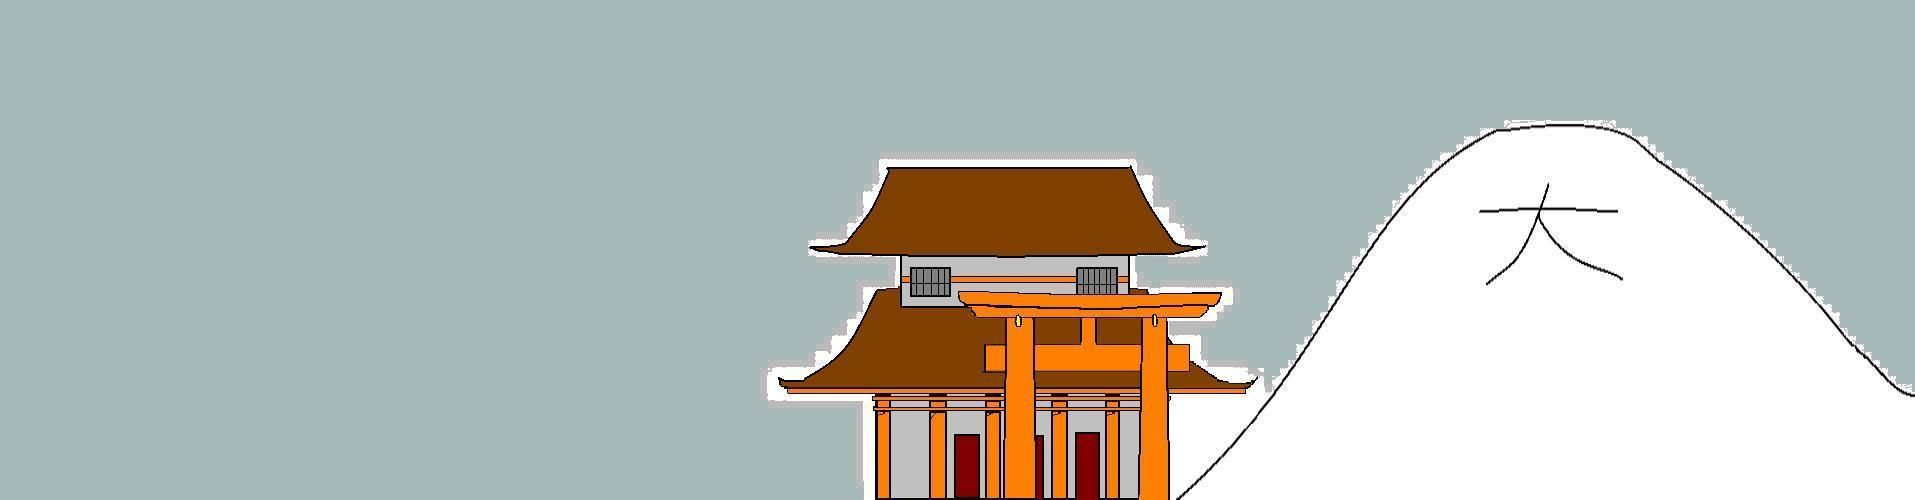
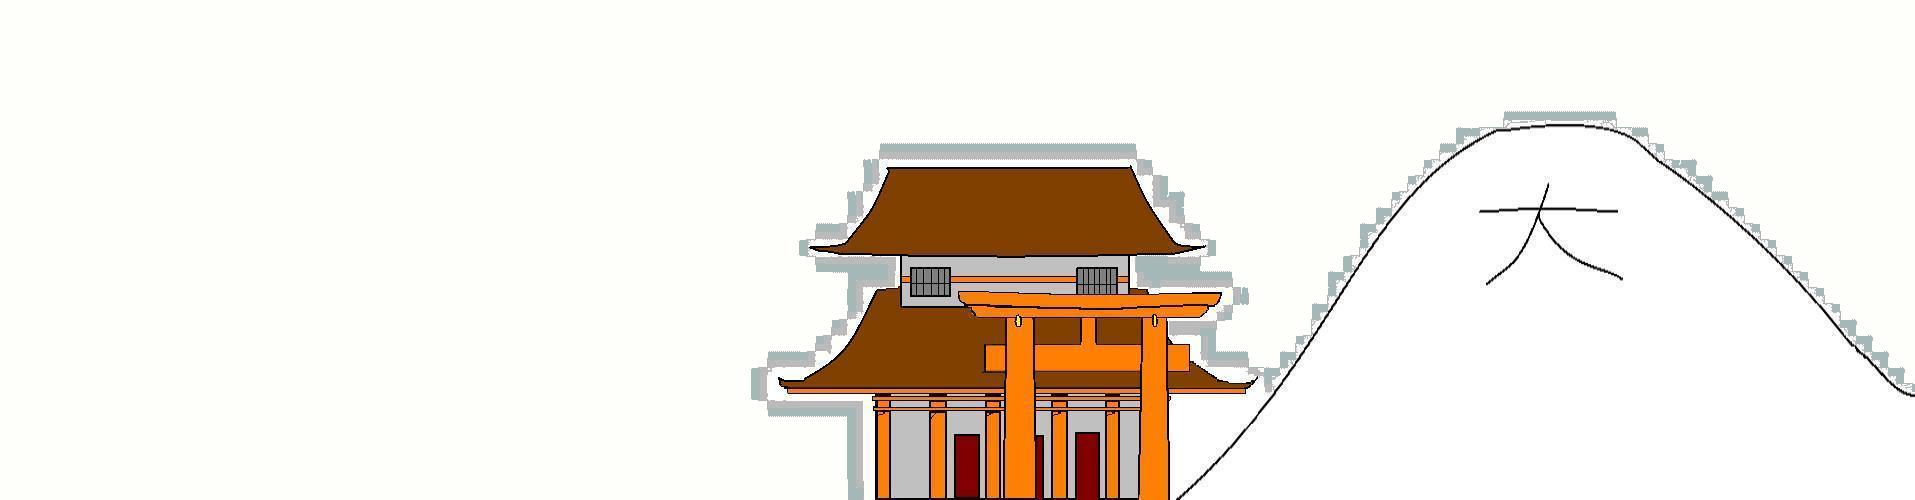
changed colors and fonts

diff --git a/PandP1.css b/PandP1.css
@@ -6,9 +6,9 @@
 #nav1{
 	width:100%;
 	position:fixed;
-	top:2px;
+	top:10px;
 	margin:0 auto;
-	background-color:transparent;	
+	background-color:#transparent;	
 }
 
 .nav{ 
@@ -26,16 +26,25 @@
 	border-radius:15px;
 	display:block;
 	padding:2px;
-	opacity:0.75;
-	border-color:#DC47FF;
-	border-style:solid;
-	color:#FF3939;
+	margin-left:10px;
+	margin-right:10px;
+	border-color:#F52114;
+	border-style:none;
+	color:#F52114;
+	text-decoration:none;
+	font-family:Copperplate / Copperplate Gothic Light, sans-serif;
 }
+
+.nav a:hover{
+	opacity:.75;
+	text-decoration:underline;
+
+}
+
 body{
     background:#000;
-    font-family:Georgia;
-    font-size: 34px;
-    font-style: italic;
+    font-family:"Comic sans";
+    font-size: 2em;
     letter-spacing:-1px;
     width:1000%;
     position:absolute;
@@ -71,9 +80,15 @@ body{
 	
 }
 
+#section1 h2{
+
+	margin:5% 0px 2% 2%;
+	font-size:250%;
+}
+
 
 #section2{
-	background-color:#769293;
+	background-color:#E7E7E4;
 }
 
 #section2 p{
@@ -116,13 +131,13 @@ body{
 }
 
 #section3{
-	background-color:#A5B7B7;
+	background-color:#FEFEFA;
 	}
 
 #section4{
-	background-color:#769293;
+	background-color:#E7E7E4;
 }
 
 #section5{
-	background-color:#A5B7B7;
+	background-color:#FEFEFA;
 }
